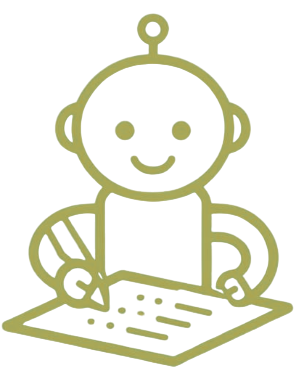
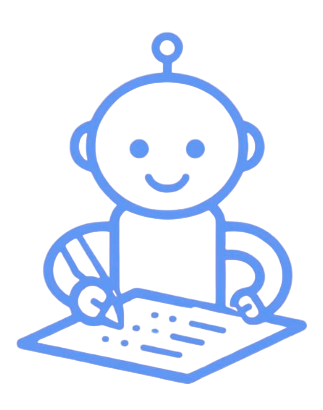
feat: adicao integracao google, e mudança de cores

Changed region(s): [[0.0, 0.0308, 0.9706, 0.9538]]

diff --git a/src/pages/Login.tsx b/src/pages/Login.tsx
@@ -1,15 +1,29 @@
-import React, { useState } from 'react';
+import React, { useState, useEffect, useRef } from 'react';
 import { Link } from 'react-router-dom';
 import { useAuthStore } from '@/store/authStore';
 import { LoginRequest } from '@/services/authService';
 
+declare global {
+  interface Window {
+    google?: {
+      accounts: {
+        id: {
+          initialize: (config: { client_id: string; callback: (response: { credential: string }) => void }) => void;
+          renderButton: (element: HTMLElement, config: { theme?: string; size?: string; width?: number }) => void;
+        };
+      };
+    };
+  }
+}
+
 const Login: React.FC = () => {
-  const { login, isLoading } = useAuthStore();
+  const { login, loginWithGoogle, isLoading } = useAuthStore();
   const [formData, setFormData] = useState<LoginRequest>({
     email: '',
     password: '',
   });
   const [errors, setErrors] = useState<Partial<LoginRequest>>({});
+  const googleButtonRef = useRef<HTMLDivElement>(null);
 
   const handleChange = (e: React.ChangeEvent<HTMLInputElement>) => {
     const { name, value } = e.target;
@@ -49,6 +63,73 @@ const Login: React.FC = () => {
     } catch (error) {
     }
   };
+
+  const handleGoogleSignIn = async (credential: string) => {
+    try {
+      await loginWithGoogle({ token: credential });
+    } catch (error: any) {
+      console.error('Erro no login com Google:', error);
+    }
+  };
+
+  useEffect(() => {
+    const googleClientId = import.meta.env.VITE_GOOGLE_CLIENT_ID || '';
+
+    if (!googleClientId) {
+      console.warn('Google Client ID não configurado');
+      return;
+    }
+
+    if (document.querySelector('script[src="https://accounts.google.com/gsi/client"]')) {
+      if (window.google && googleButtonRef.current) {
+        window.google.accounts.id.initialize({
+          client_id: googleClientId,
+          callback: (response) => {
+            handleGoogleSignIn(response.credential);
+          },
+        });
+
+        if (googleButtonRef.current) {
+          window.google.accounts.id.renderButton(googleButtonRef.current, {
+            theme: 'outline',
+            size: 'large',
+            width: googleButtonRef.current.offsetWidth || 300,
+          });
+        }
+      }
+      return;
+    }
+
+    const script = document.createElement('script');
+    script.src = 'https://accounts.google.com/gsi/client';
+    script.async = true;
+    script.defer = true;
+    script.onload = () => {
+      if (window.google && googleButtonRef.current) {
+        window.google.accounts.id.initialize({
+          client_id: googleClientId,
+          callback: (response) => {
+            handleGoogleSignIn(response.credential);
+          },
+        });
+
+        if (googleButtonRef.current) {
+          window.google.accounts.id.renderButton(googleButtonRef.current, {
+            theme: 'outline',
+            size: 'large',
+            width: googleButtonRef.current.offsetWidth || 300,
+          });
+        }
+      }
+    };
+    document.head.appendChild(script);
+
+    return () => {
+      if (googleButtonRef.current) {
+        googleButtonRef.current.innerHTML = '';
+      }
+    };
+  }, []);
 
   return (
     <div
@@ -128,6 +209,21 @@ const Login: React.FC = () => {
             {isLoading ? 'Entrando...' : 'Entrar'}
           </button>
         </form>
+
+        <div className="mt-6">
+          <div className="relative">
+            <div className="absolute inset-0 flex items-center">
+              <div className="w-full border-t border-gray-300"></div>
+            </div>
+            <div className="relative flex justify-center text-sm">
+              <span className="px-2 bg-white text-gray-500">Ou</span>
+            </div>
+          </div>
+        </div>
+
+        <div className="mt-4 flex justify-center">
+          <div ref={googleButtonRef} className="w-full flex justify-center"></div>
+        </div>
 
         <div className="mt-6 text-center space-y-2">
           <Link

diff --git a/src/store/authStore.ts b/src/store/authStore.ts
@@ -1,7 +1,7 @@
 import { create } from 'zustand';
 import { persist } from 'zustand/middleware';
 import { User } from '@/types';
-import { AuthService, LoginRequest, RegisterRequest, ForgotPasswordRequest, ResetPasswordRequest } from '@/services/authService';
+import { AuthService, LoginRequest, RegisterRequest, ForgotPasswordRequest, ResetPasswordRequest, GoogleLoginRequest } from '@/services/authService';
 import { showToast } from '@/utils/toast';
 
 interface AuthState {
@@ -14,6 +14,7 @@ interface AuthState {
   clearAuth: () => void;
   setLoading: (loading: boolean) => void;
   login: (data: LoginRequest) => Promise<void>;
+  loginWithGoogle: (data: GoogleLoginRequest) => Promise<void>;
   register: (data: RegisterRequest) => Promise<void>;
   forgotPassword: (data: ForgotPasswordRequest) => Promise<void>;
   resetPassword: (data: ResetPasswordRequest) => Promise<void>;
@@ -68,6 +69,23 @@ export const useAuthStore = create<AuthState>()(
             isLoading: false,
           });
           showToast.success('Login realizado com sucesso!');
+        } catch (error: any) {
+          set({ isLoading: false });
+          throw error;
+        }
+      },
+
+      loginWithGoogle: async (data: GoogleLoginRequest) => {
+        try {
+          set({ isLoading: true });
+          const response = await AuthService.loginWithGoogle(data);
+          set({
+            user: response.user,
+            token: response.token,
+            isAuthenticated: true,
+            isLoading: false,
+          });
+          showToast.success('Login com Google realizado com sucesso!');
         } catch (error: any) {
           set({ isLoading: false });
           throw error;

diff --git a/src/services/authService.ts b/src/services/authService.ts
@@ -23,6 +23,10 @@ export interface ResetPasswordRequest {
   newPassword: string;
 }
 
+export interface GoogleLoginRequest {
+  token: string;
+}
+
 export interface AuthResponse {
   token: string;
   user: User;
@@ -31,6 +35,10 @@ export interface AuthResponse {
 export class AuthService {
   static async login(data: LoginRequest): Promise<AuthResponse> {
     return apiClient.post<AuthResponse>('/auth/login', data);
+  }
+
+  static async loginWithGoogle(data: GoogleLoginRequest): Promise<AuthResponse> {
+    return apiClient.post<AuthResponse>('/auth/google', data);
   }
 
   static async register(data: RegisterRequest): Promise<AuthResponse> {
